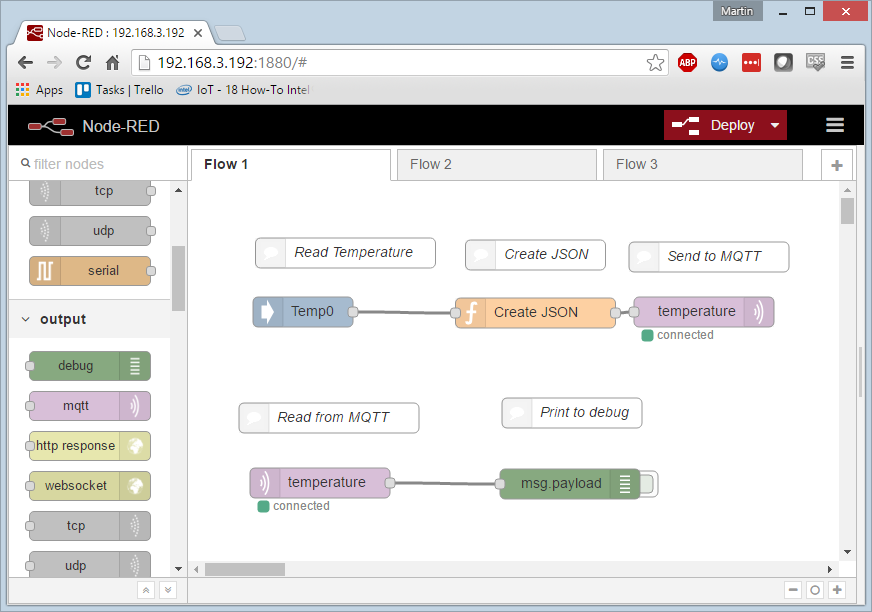
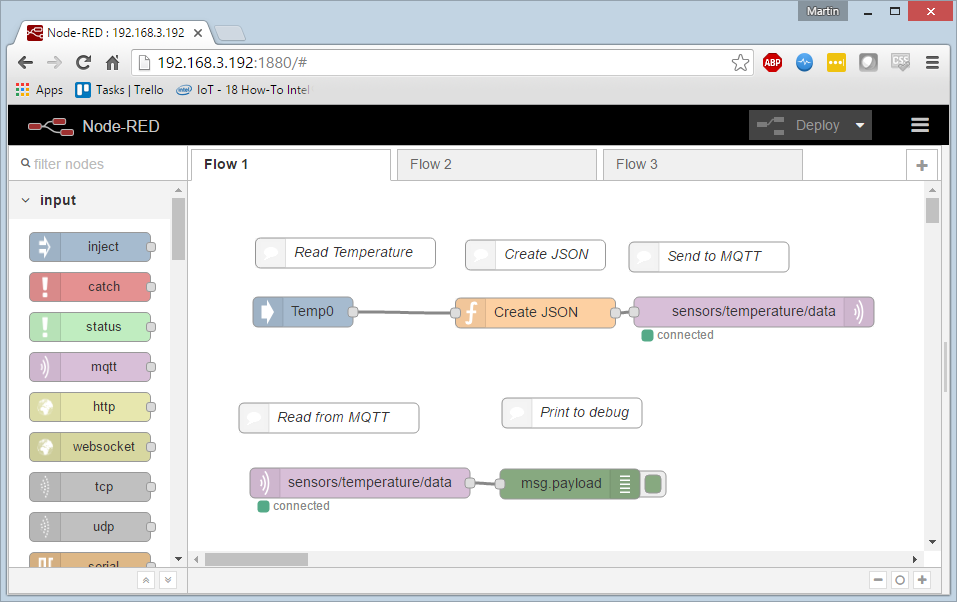
fixes to mqtt/http lab

diff --git a/app/views/labs/protocols/index.html b/app/views/labs/protocols/index.html
@@ -56,7 +56,8 @@
                     <p>Install Node-Red by running the following command:</p>
 
                     <p><code>$ npm install -g node-red</code></p>
-
+                    <P>The node-red install will throw some warnings as shown below. The installation will work fine despite these.</p>
+                      <p><img src="./views/labs/protocols/images/node-red-error.jpg" alt="" ></p>
                     <div class="alert alert-warning">
                       <p>Installing Node Red will take about 5-8 minutes. Often times it seems to fail on the first attempt, but on the second attempt it succeeds.</p>
                     </div>
@@ -95,6 +96,7 @@
                       <li>Search for the <b>Function</b> node in the function Function section and connect it to the Grove Temp Sensor.</li>
                       <li>Search for the <b>Grove LCD</b> node in the Intel_gpio and connect it to the Function.</li>
                     </ol>
+                    <p>NOTE: The nodes are listen to the left of the workspace and you will have to scroll down to find all the node you need..</p>
                 </div>
                 <div content-block name="first-flow" message="Customize your Function Node">
                     <p> Double click on the Temperature node and assign A0 as the pin and interval as 1000 to take a temperature reading every 1000ms. Double click the function node and enter the following code:</p>
@@ -186,7 +188,9 @@ return msg;</ui-codemirror>
 
             <div content-block name="find-ip-address" message="Review useful commands to help you organize your workflow on the Intel IoT Gateway">
               <h5>Setup Screen Window Manager</h5>
-
+              <p>Log into your Intel® Iot Gateway. As a refresher: </p>
+              <p>Use Putty or Screen to connect to ip address <b>192.168.1.1</b> and use <b>root</b> as the username and password.</p>
+              <p>For more details refer back to the 3rd section of the introduction lab</p>
               <p>Once you log in the Intel® Iot Gateway, start the <code>screen</code> window manager. </p>
               <p><code>$ screen</code></p>
 
@@ -202,6 +206,9 @@ return msg;</ui-codemirror>
                 <li>
                   <p>Create a user for your Mosquitto.</p>
                   <p><code>$ adduser mosquitto</code></p>
+                </li>
+                <li>
+                  <p>For simplicity use <b>root</b> when asked for the UNIX password</p>
                 </li>
 
                 <li>
@@ -236,10 +243,11 @@ return msg;</ui-codemirror>
 <h2>Configure the nodes in the MQTT flow</h2>
               <ol>
                 <li>Double click the temperature node to assign it to pin A0</li>
-                <li> Double click the mqtt nodes to configure them:</li>
+                <li>Configure <b>both</b> the <b>input mqtt</b> and <b>output mqtt</b> nodes as described below:</li>
+
                 <ul>
                   <br>
-                  <li><h3>Select the pencil icon to edit the server settings:</h3></li>
+                  <li><h3>Select the pencil icon to edit the server settings and enter <b>sensors/temperature/data</b> as the topic:</h3></li>
                   <br>
                   <p><img src="./views/labs/protocols/images/mqtt_edit_1.png" alt="" ></p>
                   <br>
@@ -268,6 +276,13 @@ return msg;
             image-link="./views/labs/protocols/images/mqtt_flow_connected.png">
               <p>When you are done configuring the nodes hit deploy</p>
               <p>In the debug tab you should now see temperature readings from the temperature sensor. Take note, the Edison is publishing the sensor data to the MQTT server on the Gateway and then pulling the sensor data down into the debug window.</p>
+                <p> If you do not see the output in the debug window:</p>
+                <ul>
+                  <li>Make sure the you can see the debug window - you  might have to expand it by dragging the right side of the workspace to the center.</li>
+                  <li>Make sure that the debug tab is selected in the upper right</li>
+                  <li>Click the tab to the right of the debug node - called msg.payload in your flow</p></li>
+
+
             </div>
 
 
@@ -283,67 +298,185 @@ return msg;
 
             <div content-block name="node-red-flow2-solution" message="Check out the solution to this exercise">
               <h5>Flow Source Code</h5>
-              <ui-codemirror ui-codemirror-opts="editorOptions">
-		  [
+              <ui-codemirror ui-codemirror-opts="editorOptions">[
    {
-      "id":"7b901765.846fe8",
+      "id":"f8e20475.ec4178",
+      "type":"mqtt-broker",
+      "z":"92444f4a.3f6fb",
+      "broker":"test.mosquitto.org",
+      "port":"1883",
+      "clientid":"",
+      "usetls":false,
+      "verifyservercert":true,
+      "compatmode":true,
+      "keepalive":"60",
+      "cleansession":true,
+      "willTopic":"",
+      "willQos":"0",
+      "willRetain":null,
+      "willPayload":"",
+      "birthTopic":"",
+      "birthQos":"0",
+      "birthRetain":null,
+      "birthPayload":""
+   },
+   {
+      "id":"9ccab42f.f5e138",
+      "type":"mqtt-broker",
+      "z":"92444f4a.3f6fb",
+      "broker":"test.mosquitto.org",
+      "port":"1883",
+      "clientid":"",
+      "usetls":false,
+      "verifyservercert":true,
+      "compatmode":true,
+      "keepalive":"60",
+      "cleansession":true,
+      "willTopic":"",
+      "willQos":"0",
+      "willRetain":null,
+      "willPayload":"",
+      "birthTopic":"",
+      "birthQos":"0",
+      "birthRetain":null,
+      "birthPayload":""
+   },
+   {
+      "id":"8a51fc7b.d2649",
       "type":"grove_temp",
-      "z":"b4234423.4bdcb8",
+      "z":"92444f4a.3f6fb",
       "name":"",
       "pin":"0",
       "interval":"1000",
-      "x":90,
-      "y":60,
+      "x":115,
+      "y":131,
       "wires":[
          [
-            "446460f6.bb9ba"
+            "c2552eb3.e9cb2"
          ]
       ]
    },
    {
-      "id":"446460f6.bb9ba",
+      "id":"c2552eb3.e9cb2",
+      "type":"function",
+      "z":"92444f4a.3f6fb",
+      "name":"Create JSON",
+      "func":"var temp = msg.payload\n\nmsg.payload = {};\nmsg.payload.sensor_id = \"grove_temp\";\nmsg.payload.time = Date.now();\nmsg.payload.value = temp;\n\nreturn msg;",
+      "outputs":1,
+      "noerr":0,
+      "x":347.5,
+      "y":132,
+      "wires":[
+         [
+            "cadc53b7.e6bf7"
+         ]
+      ]
+   },
+   {
+      "id":"cadc53b7.e6bf7",
       "type":"mqtt out",
-      "z":"b4234423.4bdcb8",
+      "z":"92444f4a.3f6fb",
       "name":"",
-      "topic":"temperature",
+      "topic":"sensors/temperature/data",
       "qos":"",
       "retain":"",
-      "broker":"",
-      "x":248,
-      "y":61,
+      "broker":"9ccab42f.f5e138",
+      "x":566,
+      "y":131,
       "wires":[
 
       ]
    },
    {
-      "id":"8010b7b1.7fef48",
+      "id":"eb754d1a.894cd",
       "type":"mqtt in",
-      "z":"b4234423.4bdcb8",
+      "z":"92444f4a.3f6fb",
       "name":"",
-      "topic":"temperature",
-      "broker":"",
-      "x":84,
-      "y":138,
+      "topic":"sensors/temperature/data",
+      "broker":"f8e20475.ec4178",
+      "x":172,
+      "y":302,
       "wires":[
          [
-            "9921221a.66dee"
+            "63fa67a9.bf1ad8"
          ]
       ]
    },
    {
-      "id":"9921221a.66dee",
+      "id":"63fa67a9.bf1ad8",
       "type":"debug",
-      "z":"b4234423.4bdcb8",
+      "z":"92444f4a.3f6fb",
       "name":"",
-      "active":false,
+      "active":true,
       "console":"false",
       "complete":"false",
-      "x":246,
-      "y":137,
+      "x":382,
+      "y":303,
       "wires":[
 
       ]
-   }]</ui-codemirror>
+   },
+   {
+      "id":"562c38c.89818c8",
+      "type":"comment",
+      "z":"92444f4a.3f6fb",
+      "name":"Read Temperature",
+      "info":"\n",
+      "x":157.5,
+      "y":72,
+      "wires":[
+
+      ]
+   },
+   {
+      "id":"bab528e3.f8c4a8",
+      "type":"comment",
+      "z":"92444f4a.3f6fb",
+      "name":"Create JSON",
+      "info":"",
+      "x":347.5,
+      "y":74,
+      "wires":[
+
+      ]
+   },
+   {
+      "id":"5e9ad648.207ea8",
+      "type":"comment",
+      "z":"92444f4a.3f6fb",
+      "name":"Send to MQTT",
+      "info":"",
+      "x":521,
+      "y":76,
+      "wires":[
+
+      ]
+   },
+   {
+      "id":"1b4fe7dc.bff108",
+      "type":"comment",
+      "z":"92444f4a.3f6fb",
+      "name":"Read from MQTT",
+      "info":"",
+      "x":141,
+      "y":237,
+      "wires":[
+
+      ]
+   },
+   {
+      "id":"c823f643.d4e018",
+      "type":"comment",
+      "z":"92444f4a.3f6fb",
+      "name":"Print to debug ",
+      "info":"",
+      "x":384,
+      "y":232,
+      "wires":[
+
+      ]
+   }
+]</ui-codemirror>
 
                 </div>
             </div>
